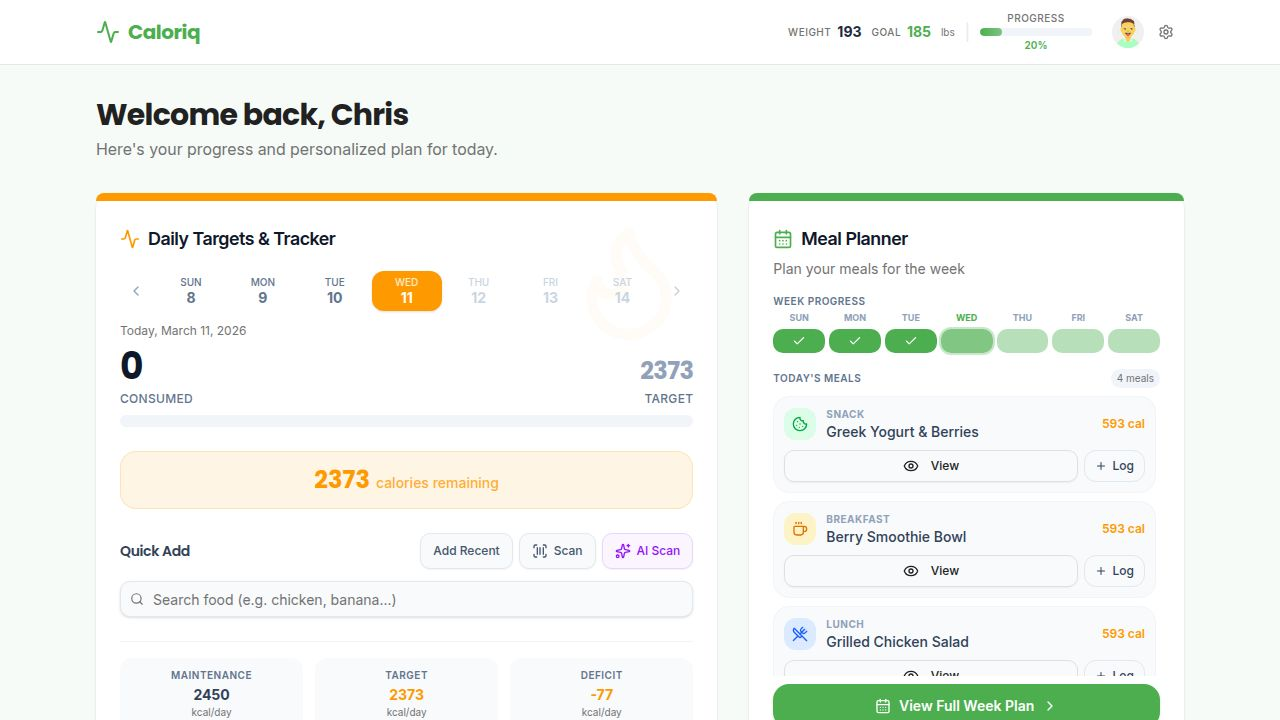
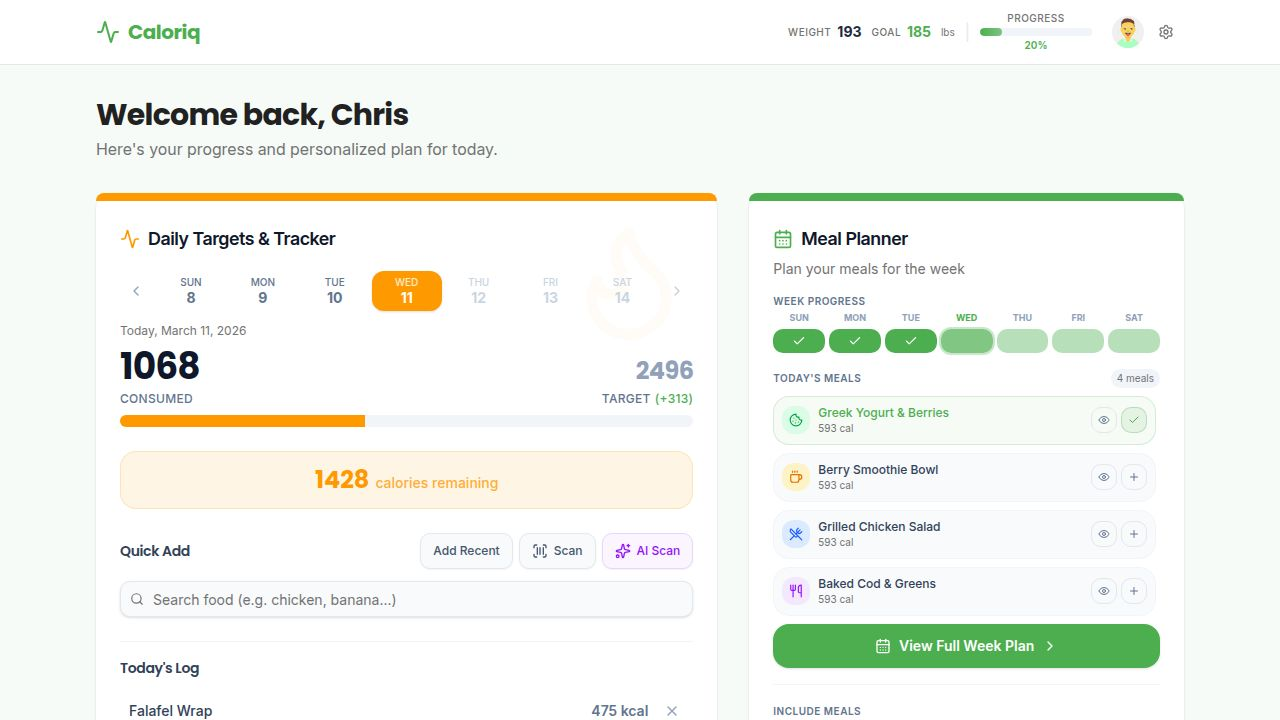
Adjust meal calorie distribution and scale ingredients within meal plans
Modify meal plan generation to distribute calories based on meal type (e.g., dinner highest, snacks lowest) and proportionally scale recipe ingredients to match calculated meal calorie targets.

Replit-Commit-Author: Agent
Replit-Commit-Session-Id: d0c98cd4-3401-4b9a-9fcc-3167ef5b7d4c
Replit-Commit-Checkpoint-Type: full_checkpoint
Replit-Commit-Event-Id: 542de9cb-9495-45fa-a993-1a8bfeded83f
Replit-Commit-Screenshot-Url: https://storage.googleapis.com/screenshot-production-us-central1/b5252e75-7d72-4a27-a063-837869a7ea78/d0c98cd4-3401-4b9a-9fcc-3167ef5b7d4c/gMH0WGM
Replit-Helium-Checkpoint-Created: true

diff --git a/client/src/pages/home.tsx b/client/src/pages/home.tsx
@@ -788,7 +788,12 @@ export default function Home() {
 
     if (mealTypes.length === 0) { setMpGenerating(false); return; }
 
-    const calPerMeal = Math.round(targetCalories / mealTypes.length);
+    const mealWeights: Record<string, number> = { breakfast: 25, lunch: 30, dinner: 35, snack: 10 };
+    const totalWeight = mealTypes.reduce((sum, mt) => sum + (mealWeights[mt] || 10), 0);
+    const calPerMealType: Record<string, number> = {};
+    mealTypes.forEach(mt => {
+      calPerMealType[mt] = Math.round((mealWeights[mt] || 10) / totalWeight * targetCalories);
+    });
 
     const macroRatios: Record<string, { p: number; c: number; f: number }> = {
       balanced: { p: 0.3, c: 0.4, f: 0.3 },
@@ -926,21 +931,29 @@ export default function Home() {
           const templates = currentTemplates[mt] || currentTemplates.dinner;
           const tplIdx = (day * (mtIdx + 1) + mtIdx) % templates.length;
           const tpl = templates[tplIdx];
-          const proteinG = Math.round((calPerMeal * ratios.p) / 4);
-          const carbsG = Math.round((calPerMeal * ratios.c) / 4);
-          const fatG = Math.round((calPerMeal * ratios.f) / 9);
+          const mealCal = calPerMealType[mt] || Math.round(targetCalories / mealTypes.length);
+          const proteinG = Math.round((mealCal * ratios.p) / 4);
+          const carbsG = Math.round((mealCal * ratios.c) / 4);
+          const fatG = Math.round((mealCal * ratios.f) / 9);
+
+          const templateTotalCal = tpl.ingredients.reduce((s, ing) => s + ing.cal, 0);
+          const scaleFactor = templateTotalCal > 0 ? mealCal / templateTotalCal : 1;
+          const scaledIngredients = tpl.ingredients.map(ing => ({
+            ...ing,
+            cal: Math.round(ing.cal * scaleFactor),
+          }));
 
           allMeals.push({
             profileId: profile!.id,
             date: dateStr,
             mealType: mt,
             title: tpl.title,
-            calories: calPerMeal,
+            calories: mealCal,
             protein: `${proteinG}g`,
             carbs: `${carbsG}g`,
             fat: `${fatG}g`,
             time: tpl.steps.length <= 3 ? "5 min" : `${15 + Math.floor(Math.random() * 4) * 5} min`,
-            ingredients: tpl.ingredients,
+            ingredients: scaledIngredients,
             steps: tpl.steps,
           });
         }
